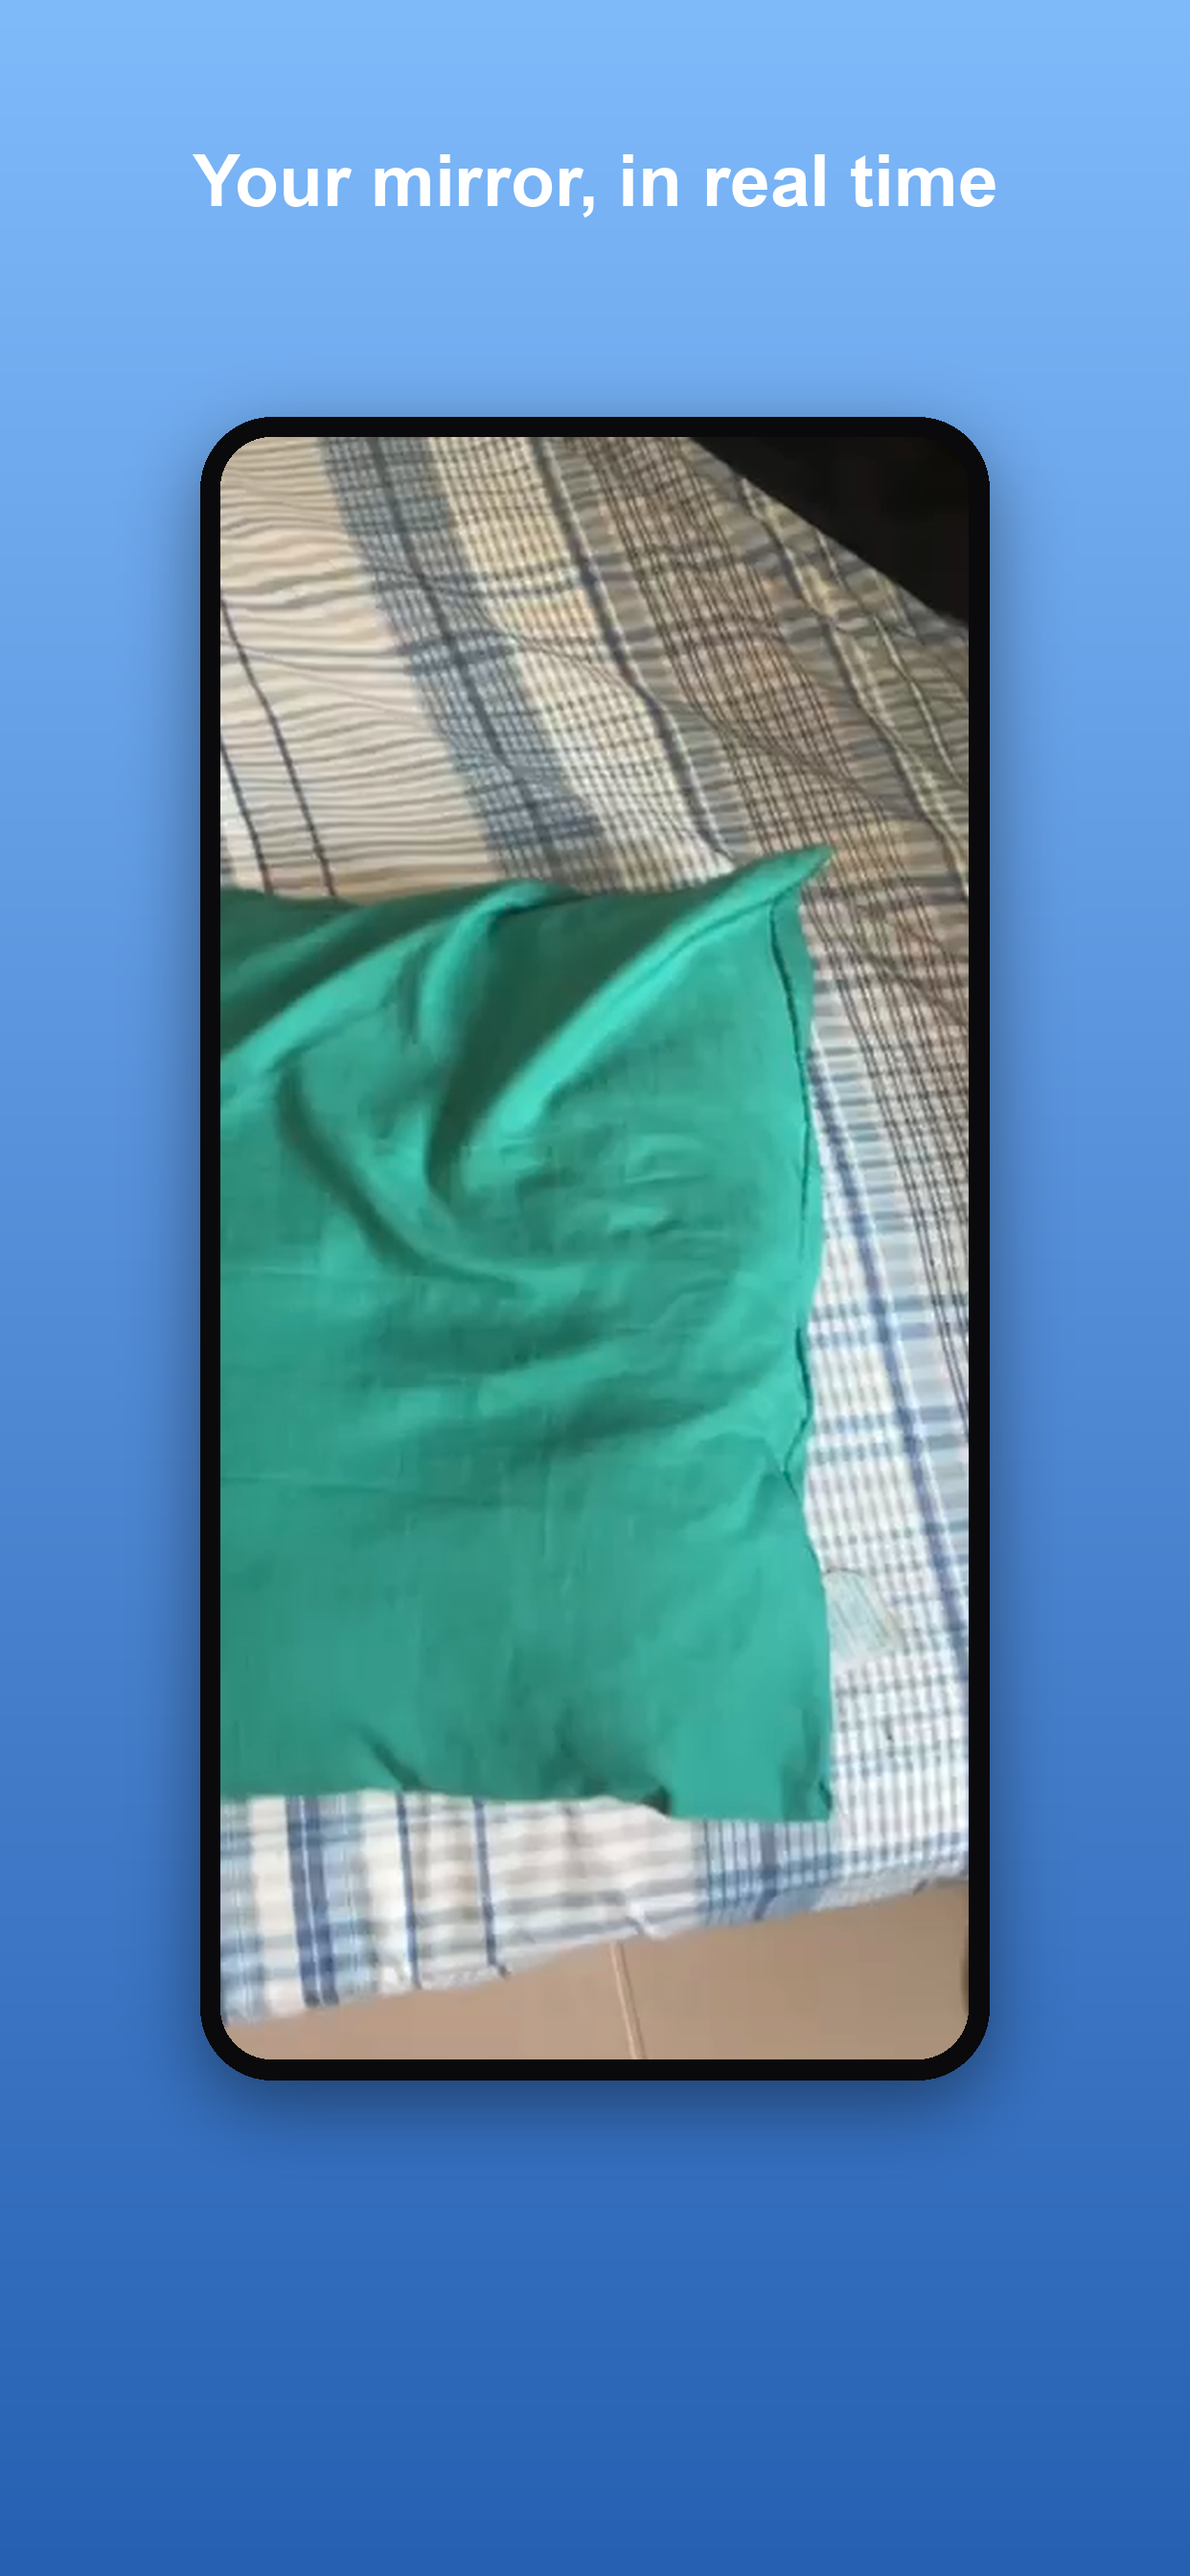
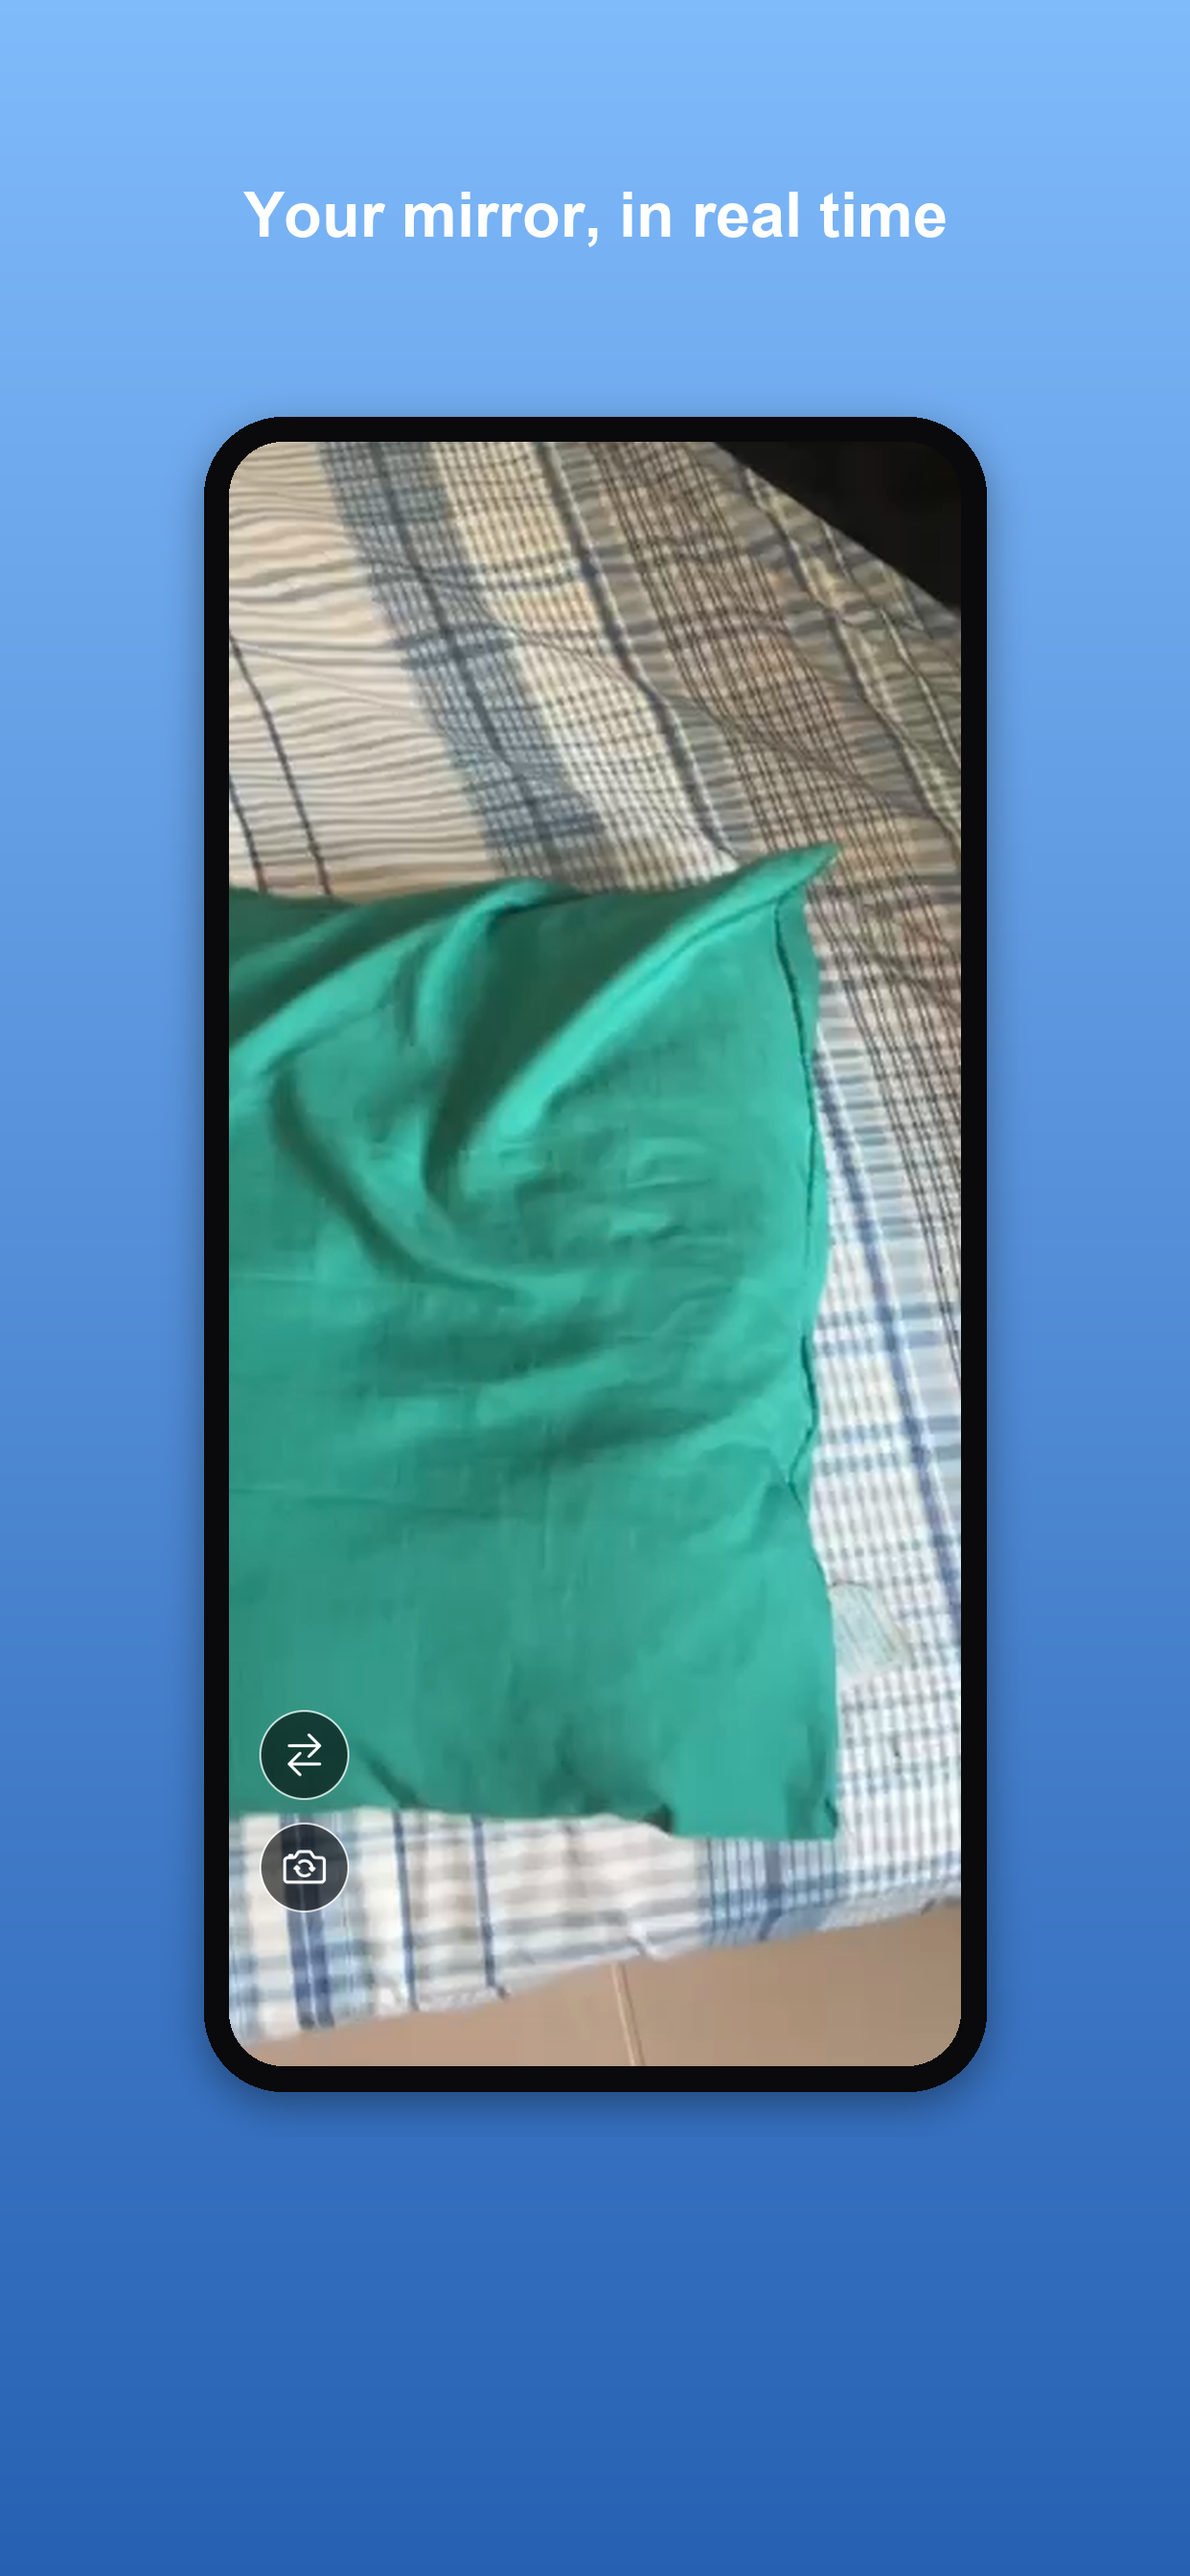
chore(store-assets): 1.4.0 screenshot sets with the floating controls
Regenerate all six sets (Google Play phone, 7" and 10" tablet, landscape; App
Store iPhone and iPad) with tools/compose.py: new hero wording, the mirror slide
with the floating buttons, and new zoom and flip (mirror vs unmirrored) slides.
The privacy and languages slides move to 06/07 and the permission slide to 08.

The mirror, zoom and flip pictures are edits of the 1.3.x captures:
tools/controls.py draws the 1.4.0 buttons (same geometry and colours as
FloatingIconButton), flips or digitally zooms the picture. The 1.4.0 build could
not be run on a device here, so there is no back-camera/flashlight slide yet.
compose.py now reads one raw folder per platform.

Refs #124

diff --git a/store-assets/tools/controls.py b/store-assets/tools/controls.py
@@ -1,0 +1,105 @@
+"""Draws Miroji's floating controls onto a bare camera capture.
+
+    python store-assets/tools/controls.py in.png out.png [--flip] [--zoom 2.2]
+                                          [--torch] [--torch-on]
+                                          [--width-dp 390] [--inset-dp 34]
+
+For the captures that were taken before the controls existed (the 1.3.x store
+images show a bare camera frame), this adds the buttons the 1.4.0 app draws on
+top of the preview, with the same geometry and colours as
+``src/components/FloatingIconButton`` and ``src/screens/MirrorScreen``:
+
+- 48 dp discs, ``rgba(0, 0, 0, 0.6)`` with a 1 dp ``rgba(255, 255, 255, 0.7)``
+  ring and a 26 dp white Ionicons glyph;
+- bottom-left, 16 dp from the side and 48 dp (plus the bottom inset) from the
+  bottom, 12 dp apart: flashlight (back camera only, on top), mirror toggle,
+  camera switch (lowest).
+
+``--flip`` mirrors the picture first (what the toggle does to the preview, the
+buttons stay put) and ``--zoom`` scales the middle of it up (digital zoom). Both
+act on the picture only, so the result is an edit of a real capture, not a new
+one: say so wherever the images are published.
+
+Needs Pillow and the Ionicons font that ships with ``@expo/vector-icons``.
+"""
+
+from __future__ import annotations
+
+import argparse
+import json
+from pathlib import Path
+
+from PIL import Image, ImageDraw, ImageFont, ImageOps
+
+ROOT = Path(__file__).resolve().parents[2]
+ICONS = ROOT / "node_modules" / "@expo" / "vector-icons" / "build" / "vendor" / "react-native-vector-icons"
+
+SIZE, ICON_SIZE, GAP, SIDE, BOTTOM = 48, 26, 12, 16, 48  # dp, as in the app
+
+
+def glyph(name: str, px: int) -> tuple[ImageFont.FreeTypeFont, str]:
+    codes = json.loads((ICONS / "glyphmaps" / "Ionicons.json").read_text(encoding="utf8"))
+    return ImageFont.truetype(str(ICONS / "Fonts" / "Ionicons.ttf"), px), chr(codes[name])
+
+
+def button(icon: str, dp: float) -> Image.Image:
+    """One floating button at ``dp`` pixels per dp, drawn 4x and scaled down for smooth edges."""
+    ss = 4
+    d = round(SIZE * dp * ss)
+    out = Image.new("RGBA", (d, d), (0, 0, 0, 0))
+    draw = ImageDraw.Draw(out)
+    ring = max(1, round(dp * ss))
+    draw.ellipse((0, 0, d - 1, d - 1), fill=(255, 255, 255, round(255 * 0.7)))
+    draw.ellipse((ring, ring, d - 1 - ring, d - 1 - ring), fill=(0, 0, 0, 0))
+    inner = Image.new("RGBA", (d, d), (0, 0, 0, 0))
+    ImageDraw.Draw(inner).ellipse((ring, ring, d - 1 - ring, d - 1 - ring), fill=(0, 0, 0, round(255 * 0.6)))
+    out = Image.alpha_composite(inner, out)
+    font, char = glyph(icon, round(ICON_SIZE * dp * ss))
+    box = ImageDraw.Draw(out).textbbox((0, 0), char, font=font)
+    ImageDraw.Draw(out).text(((d - (box[2] - box[0])) / 2 - box[0], (d - (box[3] - box[1])) / 2 - box[1]),
+                             char, font=font, fill=(255, 255, 255, 255))
+    return out.resize((round(SIZE * dp), round(SIZE * dp)), Image.LANCZOS)
+
+
+def add_controls(img: Image.Image, width_dp: float, inset_dp: float, torch: bool, torch_on: bool) -> Image.Image:
+    img = img.convert("RGBA")
+    dp = img.width / width_dp
+    icons = (["flashlight" if torch_on else "flashlight-outline"] if torch else []) + [
+        "swap-horizontal", "camera-reverse-outline"]
+    y = img.height - round((BOTTOM + inset_dp) * dp)
+    for icon in reversed(icons):  # lowest first, walking up
+        b = button(icon, dp)
+        y -= b.height
+        img.alpha_composite(b, (round(SIDE * dp), y))
+        y -= round(GAP * dp)
+    return img.convert("RGB")
+
+
+def zoomed(img: Image.Image, factor: float) -> Image.Image:
+    w, h = img.size
+    cw, ch = round(w / factor), round(h / factor)
+    box = ((w - cw) // 2, (h - ch) // 2, (w - cw) // 2 + cw, (h - ch) // 2 + ch)
+    return img.crop(box).resize((w, h), Image.LANCZOS)
+
+
+def main() -> None:
+    ap = argparse.ArgumentParser(description=__doc__, formatter_class=argparse.RawDescriptionHelpFormatter)
+    ap.add_argument("src", type=Path)
+    ap.add_argument("dst", type=Path)
+    ap.add_argument("--flip", action="store_true", help="mirror the picture left to right")
+    ap.add_argument("--zoom", type=float, default=1.0, help="digital zoom factor on the centre")
+    ap.add_argument("--torch", action="store_true", help="draw the flashlight button (back camera)")
+    ap.add_argument("--torch-on", action="store_true", help="flashlight button in its active look")
+    ap.add_argument("--width-dp", type=float, default=390, help="logical screen width of the device")
+    ap.add_argument("--inset-dp", type=float, default=34, help="bottom safe-area inset of the device")
+    a = ap.parse_args()
+    img = Image.open(a.src).convert("RGB")
+    if a.zoom != 1.0:
+        img = zoomed(img, a.zoom)
+    if a.flip:
+        img = ImageOps.mirror(img)
+    add_controls(img, a.width_dp, a.inset_dp, a.torch or a.torch_on, a.torch_on).save(a.dst)
+
+
+if __name__ == "__main__":
+    main()

diff --git a/store-assets/tools/compose.py b/store-assets/tools/compose.py
@@ -2,9 +2,9 @@
 
     python store-assets/tools/compose.py [--set android/phone ...] [--out DIR]
 
-Raw captures live in ``store-assets/raw/<set>/`` (``<set>`` is one of the folder
-names under ``store-assets/screenshots/``) and are real screenshots of the
-running app, never mockups. Each slide below is a gradient, a caption and, for
+Raw captures live in ``store-assets/raw/<platform>/`` (``android`` or ``ios``) and
+are real screenshots of the running app, never mockups. Every set of a platform
+uses the same phone captures, scaled into a device frame, as the 1.3.x sets did. Each slide below is a gradient, a caption and, for
 most of them, a capture inside a device frame. Slides whose raw capture is
 missing are skipped and reported, so a set can be built as captures arrive.
 
@@ -213,13 +213,13 @@ def main() -> int:
 
     missing: list[str] = []
     for set_name in args.set or sorted(SETS):
-        size, out_dir, raw_dir = SETS[set_name], args.out / set_name, args.raw / set_name
+        size, out_dir, raw_dir = SETS[set_name], args.out / set_name, args.raw / set_name.split("/")[0]
         out_dir.mkdir(parents=True, exist_ok=True)
         for slide in SLIDES:
             image = render(slide, size, raw_dir)
             if image is None:
                 names = ", ".join(slide.frames)
-                missing.append(f"{set_name}: {slide.name} needs raw/{set_name}/ {names}")
+                missing.append(f"{set_name}: {slide.name} needs {raw_dir.name}/ {names}")
                 continue
             image.save(out_dir / f"{slide.name}.png", optimize=True)
             print("wrote", out_dir / f"{slide.name}.png")

diff --git a/store-assets/raw/README.md b/store-assets/raw/README.md
@@ -1,19 +1,17 @@
 # Raw captures
 
-Real screenshots of the running app, one folder per store slot (same names as
-`../screenshots/`). `../tools/compose.py` turns them into the store images.
-Nothing here is a mockup: take them from a release build (Firebase or the store
-build) of the version being published.
+Real screenshots of the running app, one folder per platform. `../tools/compose.py`
+turns them into every store image. Nothing here is a mockup: take them from a
+release build (Firebase or the store build) of the version being published.
 
 ```text
 raw/
-  android/phone/          Poco / any phone          -> Google Play phone
-  android/tablet-7in/     7" tablet or emulator     -> Google Play 7" tablet
-  android/tablet-10in/    10" tablet or emulator    -> Google Play 10" tablet
-  android/landscape/      tablet, held sideways     -> Google Play Chromebook / XR
-  ios/phone/              iPhone                    -> App Store iPhone 6.5"
-  ios/ipad/               iPad                      -> App Store iPad 12.9"
+  android/   a phone (the Poco)  -> all Google Play sets: phone, 7" and 10" tablet, landscape
+  ios/       an iPhone           -> all App Store sets: iPhone 6.5" and iPad 12.9"
 ```
+
+The tablet, landscape and iPad sets reuse the phone captures inside a device
+frame, exactly as the 1.3.x sets did.
 
 Each folder takes the same five PNG files (a plain device screenshot, no
 editing; the tool scales it into a device frame):
@@ -36,3 +34,12 @@ Tips:
   tap once) before capturing, so no tip is on screen.
 - Keep the face, room and any text free of personal information: these images are
   published.
+
+## Current contents
+
+`mirror`, `mirrored`, `unmirrored` and `zoom` in both folders are derived from
+the 1.3.x store captures with `../tools/controls.py` (floating buttons drawn on,
+picture flipped or digitally zoomed), because the 1.4.0 build could not be run
+on a screenshot device when they were made. `back-torch.png` does not exist yet,
+so the `05-back-camera` slide is skipped. Replace any of these with a real
+capture of the same name and run `compose.py` again.

diff --git a/store-assets/README.md b/store-assets/README.md
@@ -3,15 +3,19 @@
 The exact screenshot sets submitted to the App Store and Google Play, kept under
 version control so the published store listings are reproducible and auditable.
 
-Each folder holds the complete 6-screenshot set for one device form factor, in
-display order:
+Each folder holds the screenshot set for one device form factor, in display
+order:
 
 ```text
-01-hero · 02-mirror · 03-privacy · 04-languages · 05-permission · 06-open-settings
+01-hero · 02-mirror · 03-zoom · 04-flip · 05-back-camera · 06-privacy · 07-languages · 08-permission
 ```
 
-Every screenshot is a real capture of the running app (not a mockup), composited
-onto a consistent gradient + device-frame template.
+The sets are composited onto a consistent gradient + device-frame template by
+`tools/compose.py`. The picture inside each frame is a capture of the app. For
+1.4.0 the mirror, zoom and flip slides are **edits of the earlier 1.3.x
+captures** (the floating buttons drawn on with `tools/controls.py`, the picture
+flipped or zoomed digitally), not fresh screenshots; `05-back-camera` is not
+produced until a real back-camera capture with the flashlight on exists.
 
 ## Contents
 
@@ -24,7 +28,7 @@ onto a consistent gradient + device-frame template.
 | `screenshots/ios/phone/`           | App Store — iPhone 6.5″       | 1242×2688  |
 | `screenshots/ios/ipad/`            | App Store — iPad 12.9″        | 2064×2752  |
 
-First submitted with **v1.3.1 (build 20)**.
+First submitted with **v1.3.1 (build 20)**; redone for **v1.4.0**.
 
 ## Rebuilding the sets
 
